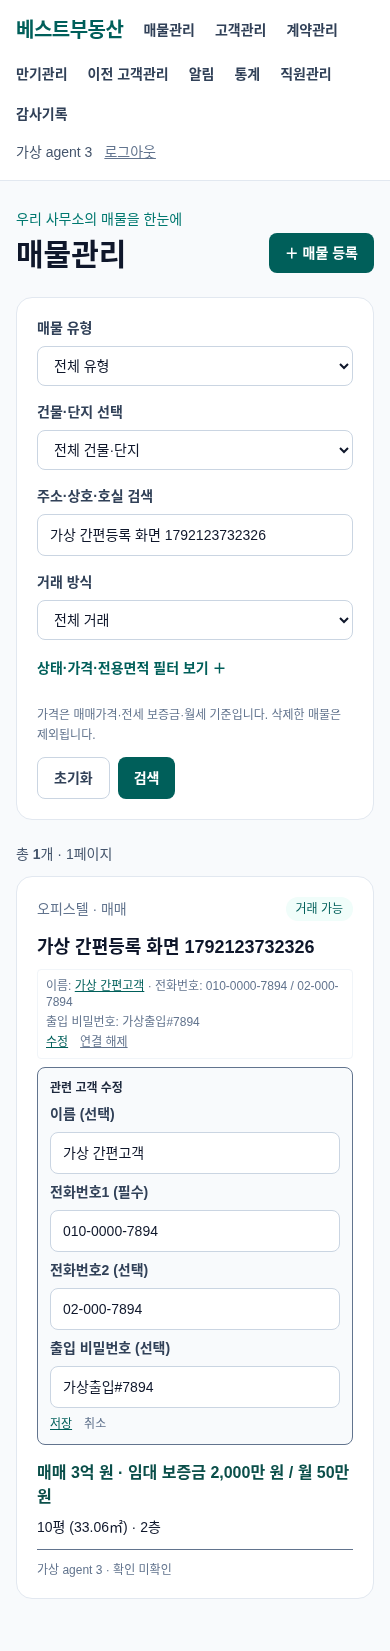
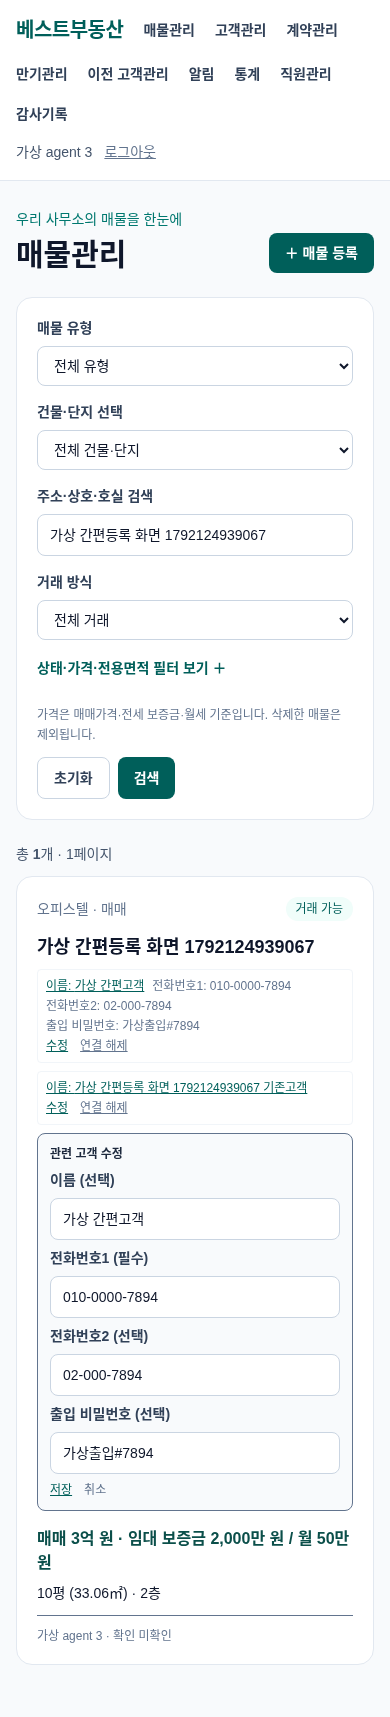
Link existing customers to properties and hide empty contact fields

diff --git a/src/components/properties/property-contacts.tsx b/src/components/properties/property-contacts.tsx
@@ -1,9 +1,11 @@
 'use client';
 import Link from 'next/link';
+import {ExistingCustomerContact} from './existing-customer-contact';
 import {useRouter} from 'next/navigation';
 import {useState,type FormEvent} from 'react';
 export type PropertyContact={id:string;property_id:string;access_code:string;version:number;customers:{id:string;name:string;phone:string|null;phone2:string;version:number;assigned_staff_id:string}};
 export function PropertyContacts({propertyId,contacts,editable,staffId,manager}:{propertyId:string;contacts:PropertyContact[];editable:boolean;staffId:string;manager:boolean}){
+ const [mode,setMode]=useState<'new'|'existing'>('new');
  const router=useRouter();const [open,setOpen]=useState(false);const [editing,setEditing]=useState<PropertyContact|null>(null);const [busy,setBusy]=useState(false);const [error,setError]=useState('');const [duplicates,setDuplicates]=useState(false);const [ack,setAck]=useState(false);
  async function submit(e:FormEvent<HTMLFormElement>){e.preventDefault();const f=new FormData(e.currentTarget);setBusy(true);setError('');try{
  const value=(key:string)=>String(f.get(key)??'').trim();const data={name:value('name'),phone:value('phone'),phone2:value('phone2'),access_code:value('access_code')};
@@ -12,10 +14,11 @@ export function PropertyContacts({propertyId,contacts,editable,staffId,manager}:
  }catch(e){setError(e instanceof Error?e.message:'저장 실패');}finally{setBusy(false);}}
  async function unlink(contact:PropertyContact){if(!confirm('매물과의 연결만 해제합니다. 고객 정보는 보존됩니다.'))return;setBusy(true);setError('');try{const r=await fetch(`/api/properties/${propertyId}/contacts`,{method:'DELETE',headers:{'Content-Type':'application/json'},body:JSON.stringify({id:contact.id,version:contact.version})});if(!r.ok)throw new Error((await r.json()).error);router.refresh();}catch(e){setError(e instanceof Error?e.message:'연결 해제 실패');}finally{setBusy(false);}}
  return <div className="mt-2 space-y-2 text-xs font-normal text-slate-500">
- {contacts.map(c=><div className="rounded border border-slate-100 p-2" key={c.id}><p className="break-words">이름: <Link className="text-teal-800 underline" href={'/dashboard/customers/'+c.customers.id}>{c.customers.name||'미입력'}</Link> · 전화번호: {c.customers.phone||'미입력'}{c.customers.phone2&&` / ${c.customers.phone2}`}</p><p className="mt-1 break-all">출입 비밀번호: {c.access_code||'미입력'}</p>{editable&&<div className="mt-1 flex gap-3">{(manager||c.customers.assigned_staff_id===staffId)&&<button type="button" className="text-teal-800 underline" onClick={()=>{setEditing(c);setOpen(true);setError('');setDuplicates(false);setAck(false);}}>수정</button>}<button type="button" disabled={busy} className="underline" onClick={()=>unlink(c)}>연결 해제</button></div>}</div>)}
- {!contacts.length&&<p>이름: — · 전화번호: — · 출입 비밀번호: —</p>}
- {editable&&!open&&<button type="button" className="text-teal-800 underline" onClick={()=>{setEditing(null);setOpen(true);setError('');setDuplicates(false);setAck(false);}}>＋ 관련 고객 간편 등록</button>}
- {open&&<form key={editing?.id??'new'} onSubmit={submit} onChange={()=>setAck(false)} className="mt-2 min-w-0 rounded-lg border bg-slate-50 p-3"><fieldset disabled={busy} className="space-y-2"><p className="font-semibold text-slate-800">{editing?'관련 고객 수정':'관련 고객 간편 등록'}</p><label className="field">이름 (선택)<input name="name" maxLength={100} defaultValue={editing?.customers.name}/></label><label className="field">전화번호1 (필수)<input name="phone" type="tel" required maxLength={40} defaultValue={editing?.customers.phone??''}/></label><label className="field">전화번호2 (선택)<input name="phone2" type="tel" maxLength={40} defaultValue={editing?.customers.phone2}/></label><label className="field">출입 비밀번호 (선택)<input name="access_code" autoComplete="off" maxLength={100} defaultValue={editing?.access_code}/></label>{duplicates&&<label className="flex gap-2"><input type="checkbox" checked={ack} onChange={e=>{e.stopPropagation();setAck(e.target.checked);}}/>중복 가능성을 확인했으며 별도 고객으로 등록</label>}<div className="flex gap-3"><button type="submit" className="text-teal-800 underline">{busy?'저장 중…':'저장'}</button><button type="button" onClick={()=>{setOpen(false);setEditing(null);setError('');}}>취소</button></div></fieldset></form>}
+ {contacts.map(c=><div className="rounded border border-slate-100 p-2" key={c.id}><div className="flex flex-wrap gap-x-2 gap-y-1">{c.customers.name.trim()&&<Link className="text-teal-800 underline" href={'/dashboard/customers/'+c.customers.id}>이름: {c.customers.name}</Link>}{c.customers.phone?.trim()&&<span>전화번호1: {c.customers.phone}</span>}{c.customers.phone2?.trim()&&<span>전화번호2: {c.customers.phone2}</span>}</div>{c.access_code.trim()&&<p className="mt-1 break-all">출입 비밀번호: {c.access_code}</p>}{editable&&<div className="mt-1 flex gap-3">{(manager||c.customers.assigned_staff_id===staffId)&&<button type="button" className="text-teal-800 underline" onClick={()=>{setEditing(c);setMode('new');setOpen(true);setError('');setDuplicates(false);setAck(false);}}>수정</button>}<button type="button" disabled={busy} className="underline" onClick={()=>unlink(c)}>연결 해제</button></div>}</div>)}
+ {editable&&!open&&<button type="button" className="text-teal-800 underline" onClick={()=>{setEditing(null);setMode('new');setOpen(true);setError('');setDuplicates(false);setAck(false);}}>＋ 관련 고객 간편 등록</button>}
+ {open&&!editing&&<div className="flex flex-wrap gap-3"><button type="button" aria-pressed={mode==='new'} className="text-teal-800 underline" onClick={()=>{setMode('new');setError('');}}>새 고객 등록</button><button type="button" aria-pressed={mode==='existing'} className="text-teal-800 underline" onClick={()=>{setMode('existing');setError('');}}>기존 고객 연결</button></div>}
+ {open&&mode==='existing'&&<><ExistingCustomerContact propertyId={propertyId} linkedIds={contacts.map(c=>c.customers.id)} onDone={()=>setOpen(false)}/><button type="button" onClick={()=>setOpen(false)}>취소</button></>}
+ {open&&mode==='new'&&<form key={editing?.id??'new'} onSubmit={submit} onChange={()=>setAck(false)} className="mt-2 min-w-0 rounded-lg border bg-slate-50 p-3"><fieldset disabled={busy} className="space-y-2"><p className="font-semibold text-slate-800">{editing?'관련 고객 수정':'관련 고객 간편 등록'}</p><label className="field">이름 (선택)<input name="name" maxLength={100} defaultValue={editing?.customers.name}/></label><label className="field">전화번호1 (필수)<input name="phone" type="tel" required maxLength={40} defaultValue={editing?.customers.phone??''}/></label><label className="field">전화번호2 (선택)<input name="phone2" type="tel" maxLength={40} defaultValue={editing?.customers.phone2}/></label><label className="field">출입 비밀번호 (선택)<input name="access_code" autoComplete="off" maxLength={100} defaultValue={editing?.access_code}/></label>{duplicates&&<label className="flex gap-2"><input type="checkbox" checked={ack} onChange={e=>{e.stopPropagation();setAck(e.target.checked);}}/>중복 가능성을 확인했으며 별도 고객으로 등록</label>}<div className="flex gap-3"><button type="submit" className="text-teal-800 underline">{busy?'저장 중…':'저장'}</button><button type="button" onClick={()=>{setOpen(false);setEditing(null);setError('');}}>취소</button></div></fieldset></form>}
  {error&&<p role="alert" className="text-red-700">{error}</p>}
  </div>;
 }

diff --git a/src/components/properties/existing-customer-contact.tsx b/src/components/properties/existing-customer-contact.tsx
@@ -1,0 +1,14 @@
+'use client';
+import {useState,type FormEvent} from 'react';
+import {useRouter} from 'next/navigation';
+type Candidate={id:string;name:string;company_name:string;phone:string|null};
+export function ExistingCustomerContact({propertyId,linkedIds,onDone}:{propertyId:string;linkedIds:string[];onDone:()=>void}){
+ const router=useRouter();const [query,setQuery]=useState('');const [searched,setSearched]=useState('');const [page,setPage]=useState(1);const [count,setCount]=useState(0);const [results,setResults]=useState<Candidate[]>([]);const [selected,setSelected]=useState<Candidate|null>(null);const [busy,setBusy]=useState(false);const [error,setError]=useState('');
+ async function search(q:string,p=1){if(!q.trim())return;setBusy(true);setError('');try{const r=await fetch('/api/customers?'+new URLSearchParams({q:q.trim(),page:String(p)}));const d=await r.json();if(!r.ok||d.error)throw new Error(d.error||'고객 검색 실패');setResults(d.data);setCount(d.count);setPage(p);setSearched(q.trim());setSelected(null);}catch(e){setError(e instanceof Error?e.message:'고객 검색 실패');}finally{setBusy(false);}}
+ async function attach(e:FormEvent<HTMLFormElement>){e.preventDefault();if(!selected)return;const f=new FormData(e.currentTarget);setBusy(true);setError('');try{const r=await fetch(`/api/properties/${propertyId}/contacts`,{method:'POST',headers:{'Content-Type':'application/json'},body:JSON.stringify({customer_id:selected.id,access_code:String(f.get('access_code')??'').trim()})});const d=await r.json();if(!r.ok)throw new Error(d.error);onDone();router.refresh();}catch(e){setError(e instanceof Error?e.message:'고객 연결 실패');}finally{setBusy(false);}}
+ return <div className="mt-2 space-y-3 rounded-lg border bg-slate-50 p-3"><form onSubmit={e=>{e.preventDefault();void search(query);}}><fieldset disabled={busy} className="space-y-2"><label className="field">기존 고객 검색<input value={query} onChange={e=>setQuery(e.target.value)} maxLength={200} required placeholder="이름, 법인명, 전화번호"/></label><button className="text-teal-800 underline">고객 검색</button></fieldset></form>
+ {searched&&<><p>검색 결과 {count}명</p><ul className="space-y-2">{results.map(c=><li key={c.id} className="rounded border bg-white p-2"><p className="break-words">{[c.name,c.company_name,c.phone].filter(Boolean).join(' · ')}</p><button type="button" className="mt-1 text-teal-800 underline disabled:text-slate-400" disabled={busy||linkedIds.includes(c.id)} onClick={()=>{setSelected(c);setError('');}}>{linkedIds.includes(c.id)?'연결됨':'이 고객 선택'}</button></li>)}</ul><div className="flex gap-3">{page>1&&<button disabled={busy} type="button" onClick={()=>search(searched,page-1)}>이전 고객</button>}{page*20<count&&<button disabled={busy} type="button" onClick={()=>search(searched,page+1)}>다음 고객</button>}</div></>}
+ {selected&&<form key={selected.id} onSubmit={attach}><fieldset disabled={busy} className="space-y-2"><p className="break-words font-semibold">선택한 고객: {[selected.name,selected.company_name,selected.phone].filter(Boolean).join(' · ')}</p><label className="field">출입 비밀번호 (선택)<input name="access_code" autoComplete="off" maxLength={100}/></label><p>기존 고객정보는 그대로 두고 이 매물에 연결합니다.</p><button className="text-teal-800 underline">{busy?'연결 중…':'매물에 연결'}</button></fieldset></form>}
+ {error&&<p role="alert" className="text-red-700">{error}</p>}
+ </div>;
+}

diff --git a/src/app/api/properties/[id]/contacts/route.ts b/src/app/api/properties/[id]/contacts/route.ts
@@ -4,7 +4,18 @@ const phone=z.string().trim().max(40).regex(/^[0-9+()\s-]*$/).refine(v=>v.replac
 const input=z.object({name:z.string().trim().max(100),phone,phone2:z.string().trim().max(40).regex(/^[0-9+()\s-]*$/),access_code:z.string().max(100),id:z.guid().optional(),version:z.number().int().positive().optional(),customer_version:z.number().int().positive().optional()}).strict();
 export async function POST(request:Request,{params}:{params:Promise<{id:string}>}){
  const c=await propertyContext(request);if(c.error)return c.error;const {id}=await params;const target=await editableProperty(c,id);if(target.error)return target.error;
- const parsed=input.safeParse(await request.json().catch(()=>null));if(!parsed.success)return Response.json({error:parsed.error.issues[0]?.message??'입력값을 확인하세요.'},{status:400});const p=parsed.data;
+ const body=await request.json().catch(()=>null);
+ if(body&&typeof body==='object'&&'customer_id' in body){
+  const existing=z.object({customer_id:z.guid(),access_code:z.string().trim().max(100)}).strict().safeParse(body);
+  if(!existing.success)return Response.json({error:'연결할 고객과 출입 비밀번호를 확인하세요.'},{status:400});
+  const customer=await c.db.from('customers').select('id').eq('id',existing.data.customer_id).is('deleted_at',null).maybeSingle();
+  if(customer.error)return Response.json({error:'고객 조회에 실패했습니다.'},{status:500});
+  if(!customer.data)return Response.json({error:'연결할 고객을 찾을 수 없습니다.'},{status:404});
+  const linked=await c.db.from('property_contacts').insert({office_id:c.staff.office_id,property_id:id,customer_id:customer.data.id,access_code:existing.data.access_code}).select('id').single();
+  if(linked.error)return Response.json({error:linked.error.code==='23505'?'이미 이 매물에 연결된 고객입니다.':'고객을 연결하지 못했습니다. 고객과 매물 상태를 다시 확인하세요.'},{status:linked.error.code==='23505'?409:400});
+  return Response.json(linked.data,{status:201,headers:{'Cache-Control':'private, no-store'}});
+ }
+ const parsed=input.safeParse(body);if(!parsed.success)return Response.json({error:parsed.error.issues[0]?.message??'입력값을 확인하세요.'},{status:400});const p=parsed.data;
  const {data,error}=await c.db.rpc('save_property_contact',{p_property:id,p_name:p.name,p_phone:p.phone,p_phone2:p.phone2,p_access_code:p.access_code,p_contact:p.id??null,p_version:p.version??null,p_customer_version:p.customer_version??null});
  if(error)return Response.json({error:error.code==='40001'?'고객 정보가 변경되었거나 수정 권한이 없습니다. 새로고침하세요.':'관련 고객 저장 실패: DB 015 업데이트와 입력값을 확인하세요.'},{status:error.code==='40001'?409:400});
  return Response.json({id:data},{status:p.id?200:201,headers:{'Cache-Control':'private, no-store'}});

diff --git a/docs/property-contacts-validation.md b/docs/property-contacts-validation.md
@@ -24,3 +24,12 @@
 ## 적용
 
 최신 코드로 교체하되 두 환경 설정 파일과 Docker 볼륨을 보존한다. `bash scripts/start-local.sh`가 미적용 015를 적용한 후 Next.js 서버를 재시작한다. 기존 DB를 reset하지 않는다. 출입 비밀번호는 해당 매물과 고객 연결의 메모이며 로그인 인증정보로 사용하지 않는다. 등록한 고객을 계약 당사자로 연결할 때 확인된 실명 등 필요한 정보를 보완할 수 있다.
+
+## 후속 개선 — 빈 항목 숨김과 기존 고객 연결
+
+- 관련 고객 표시에서 빈 이름·전화번호1·전화번호2·출입 비밀번호는 항목명까지 숨긴다. 고객 연결이 없으면 빈 연락처 안내도 표시하지 않는다.
+- `관련 고객 간편 등록 → 기존 고객 연결`에서 이름·법인명·전화번호로 검색하고 선택한다. 20건씩 페이지를 이동할 수 있고 이미 연결된 고객은 선택을 막는다. 선택 후 해당 매물의 출입 비밀번호만 선택 입력한다.
+- 기존 고객의 정보를 변경하거나 새 고객을 생성하지 않는다. 같은 사무소 고객을 여러 매물에 연결할 수 있다. 고객 담당자가 다른 직원이어도 담당 매물과의 연결은 허용하지만 고객정보 수정 권한은 그대로 유지한다.
+- API는 기존 매물 수정 권한, 고객의 사무소·보관 상태, 기존 FK·UNIQUE·RLS 정책을 적용한다. office_id나 고객정보 변경 필드를 요청에 넣으면 거부한다. 중복 연결 요청으로 기존 출입 비밀번호를 덮어쓰지 않는다.
+- 015까지 적용된 DB에는 추가 SQL 마이그레이션이 필요 없다. 최신 코드 반영 후 Next 서버를 재시작한다.
+- production build·ESLint 통과. 관련 API/직접 REST 권한 검사 **25개**, Chromium PC·390px 모바일 검사 **10개**, 합계 **35개** 통과. 앞의 기존 회귀 검사 결과는 015 개발 당시 기록이며 이번 변경에서 전체 릴리스 테스트를 반복 실행하지는 않았다.

diff --git a/README.md b/README.md
@@ -179,3 +179,5 @@ npm run dev
 ```
 
 추가 마이그레이션 `202610160015_property_contacts_staff_names.sql`을 적용합니다. DB 초기화는 필요하지 않습니다. 검증: `npm run test:property-contacts`, `npm run test:property-contacts-ui` 및 [015 검증 결과](docs/property-contacts-validation.md).
+
+관련 고객의 빈 항목은 표시하지 않습니다. `관련 고객 간편 등록 → 기존 고객 연결`에서 이름·법인명·전화번호로 기존 고객을 검색한 뒤 매물에 연결할 수 있습니다. 고객 원본과 담당자는 유지하며 출입 비밀번호는 해당 연결에만 저장합니다. 이미 연결된 고객은 중복 연결을 막습니다. **015 적용이 끝난 DB에는 이번 개선을 위한 추가 DB 업데이트가 필요 없으며**, 최신 코드로 교체 후 Next 서버를 재시작하면 됩니다.
